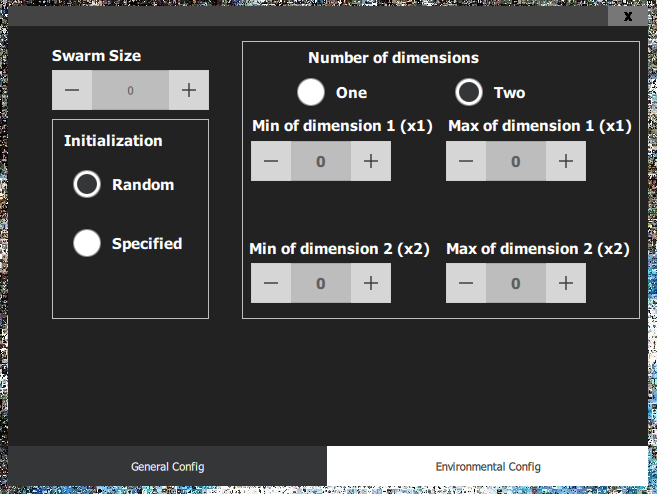
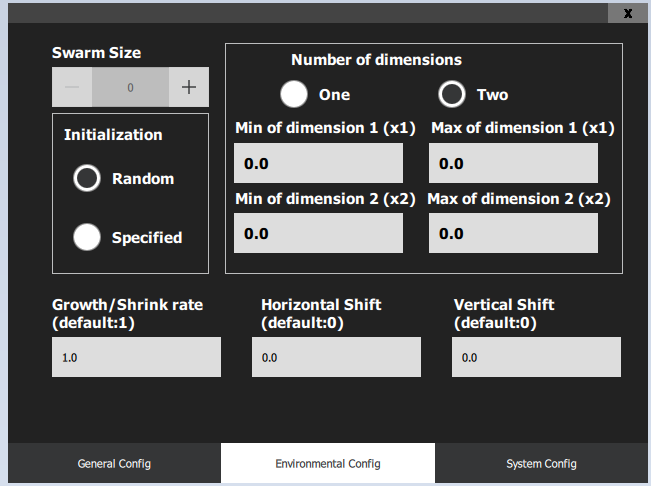
Slightly edited wording and updated screenshots
Nothing else to say really, mostly making sure we use the word
"iterations" over "epochs"

diff --git a/GUI/Page1.qml b/GUI/Page1.qml
@@ -226,12 +226,14 @@ CheckBox {
 }
 
 SpinBox {
-    id: maxEpochs
+    id: maxIterations
     x: 31
     y: 220
     width: 230
     height: 40
+    opacity: 0.7
     from: 1
+    value: 1
     to: 2147483647
 }
 
@@ -241,17 +243,19 @@ SpinBox {
     y: 220
     width: 230
     height: 40
+    opacity: 0.7
     from: 1
+    value: 1
     to: 100
 }
 
 Label {
-    id: epochLabel
+    id: iterationLabel
     x: 31
     y: 196
     width: 180
     color: "#ffffff"
-    text: qsTr("Max Epochs")
+    text: qsTr("Max Iterations")
     horizontalAlignment: Text.AlignLeft
     font.pixelSize: 15
     font.bold: true
@@ -264,7 +268,7 @@ Label {
     y: 196
     width: 180
     color: "#ffffff"
-    text: qsTr("Target Accuracy")
+    text: qsTr("Accuracy cutoff (%)")
     horizontalAlignment: Text.AlignLeft
     font.pixelSize: 15
     font.bold: true
